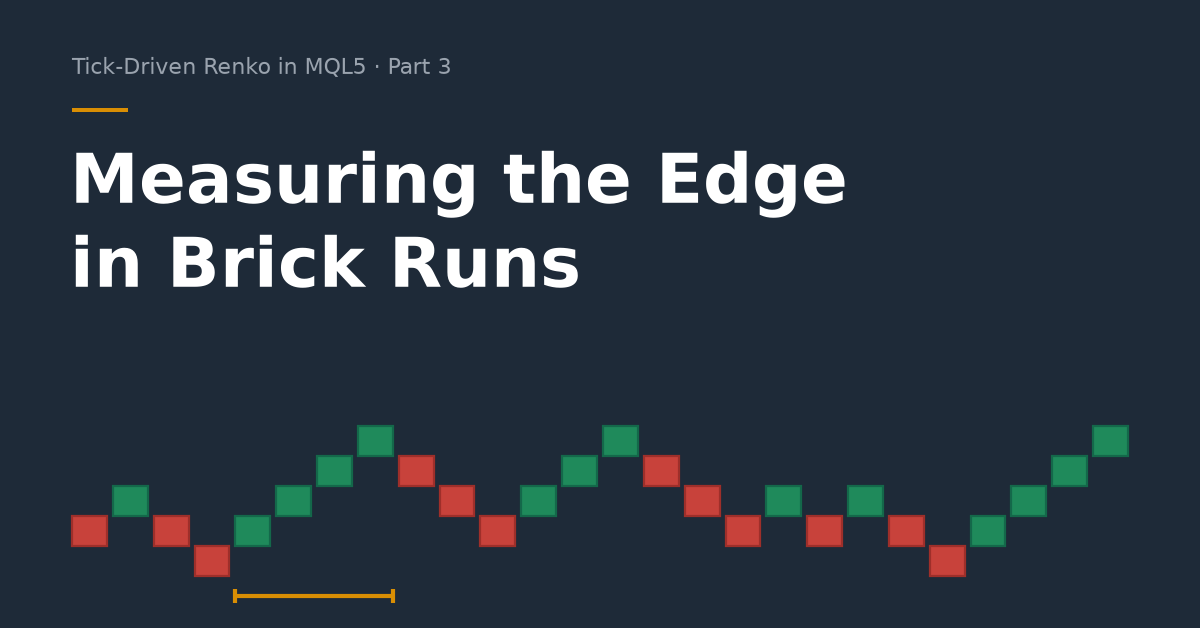
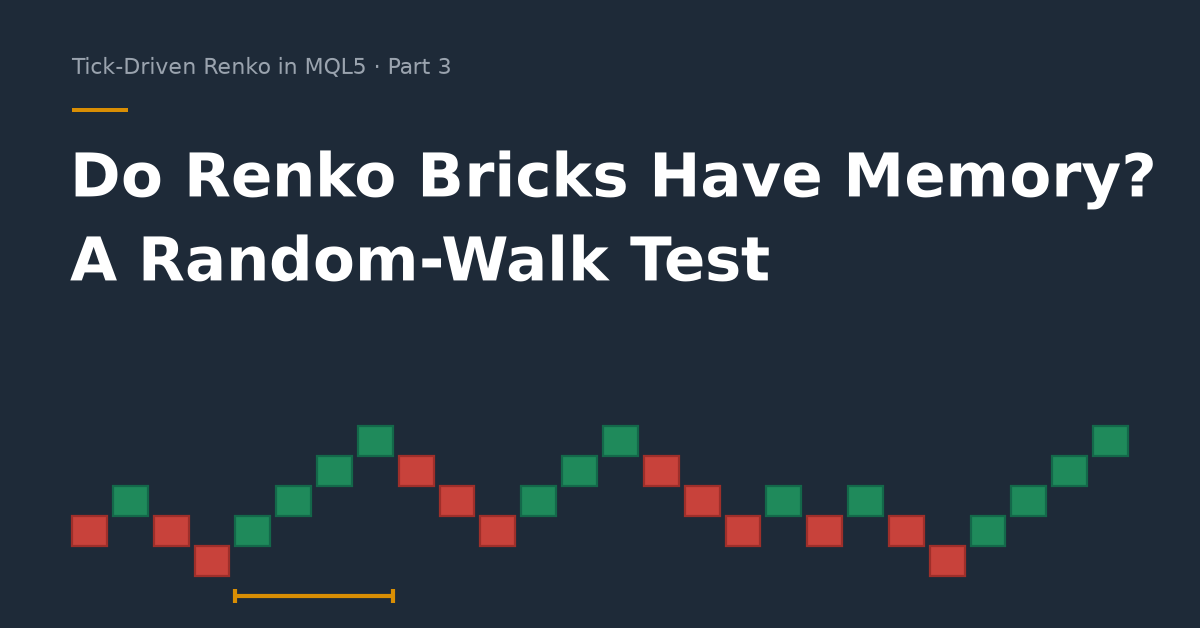
Author headers (Copyright 2026, Ninad K) in every MQL5 file; Part 3 retitled

Changed region(s): [[0.0617, 0.242, 0.9867, 0.4538]]

diff --git a/figures/make_covers.py b/figures/make_covers.py
@@ -35,14 +35,14 @@ HILITE = "#D98E04"
 TITLES = {
     1: "A Brick Engine That Cannot Repaint",
     2: "What a Renko Backtest Hides",
-    3: "Measuring the Edge in Brick Runs",
+    3: "Do Renko Bricks Have Memory? A Random-Walk Test",
     4: "Making a Renko EA Pass Automatic Validation",
 }
 SERIES = "Tick-Driven Renko in MQL5"
 BREAKS = {
     1: ["A Brick Engine That", "Cannot Repaint"],
     2: ["What a Renko", "Backtest Hides"],
-    3: ["Measuring the Edge", "in Brick Runs"],
+    3: ["Do Renko Bricks Have Memory?", "A Random-Walk Test"],
     4: ["Making a Renko EA Pass", "Automatic Validation"],
 }
 for _n, _t in TITLES.items():
@@ -148,7 +148,7 @@ def draw_cover(n):
     ax.text(72, 560, f"{SERIES} · Part {n}", color=FORM, fontsize=15.5, ha="left", va="center")
     ax.add_patch(Rectangle((72, 516), 56, 4, facecolor=HILITE, edgecolor="none"))
     lines = BREAKS[n]
-    fs = 50
+    fs = 50 if max(len(s) for s in lines) <= 26 else 44
     y = 478
     for ln in lines:
         ax.text(70, y, ln, color="white", fontsize=fs, fontweight="bold", ha="left", va="top")

diff --git a/figures/make_ep03.py b/figures/make_ep03.py
@@ -1,4 +1,4 @@
-"""Figures for Part 3: Measuring the Edge in Brick Runs.
+"""Figures for Part 3: Do Renko Bricks Have Memory? A Random-Walk Test.
 
 Run:  python make_ep03.py   (writes figures/ep03/*.png, 750 px wide, STYLE.md colours)
 Reads results/ep03/*.csv. Nothing is re-simulated.

diff --git a/README.md b/README.md
@@ -9,7 +9,7 @@ random walk.
 |---|---|---|---|
 | 1 | A Brick Engine That Cannot Repaint | `ep01` | `RenkoEngine.mqh`, `RenkoEngineTests.mq5` (10 hand-computed cases) |
 | 2 | What a Renko Backtest Hides | `ep02` | `RenkoSweep.mq5/.mqh`, `TickCsvReader.mqh`, cost results |
-| 3 | Measuring the Edge in Brick Runs | `ep03` | run-length results vs the random-walk mean of 3.0 |
+| 3 | Do Renko Bricks Have Memory? A Random-Walk Test | `ep03` | run-length results vs the random-walk mean of 3.0 |
 | 4 | Making a Renko EA Pass Automatic Validation | `ep04` | `RenkoTickContinuationEA.mq5`, `MarketSafe.mqh` |
 
 ## Layout
